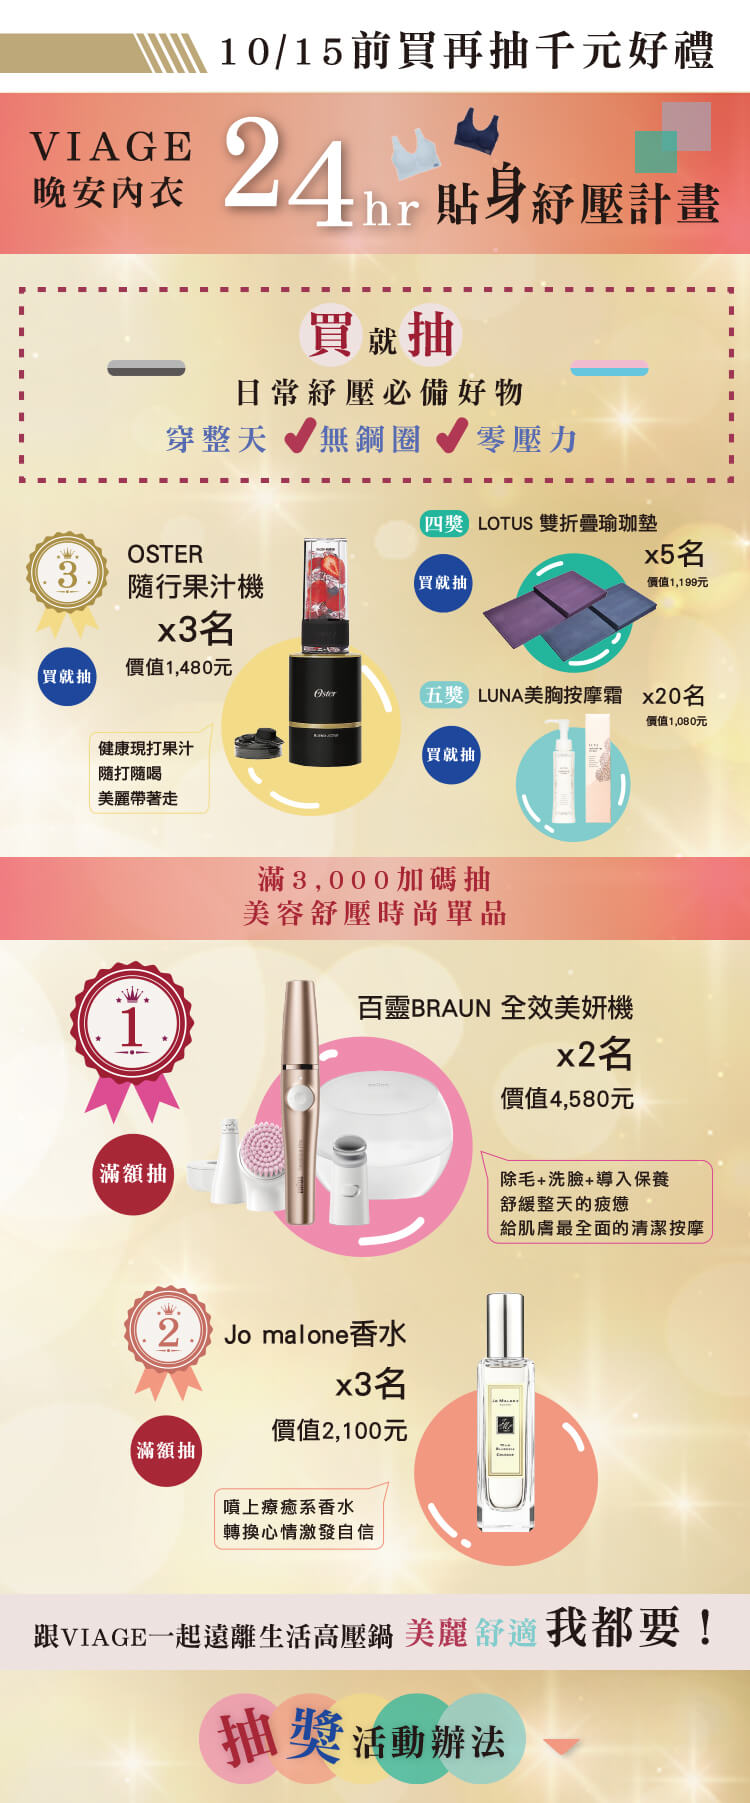
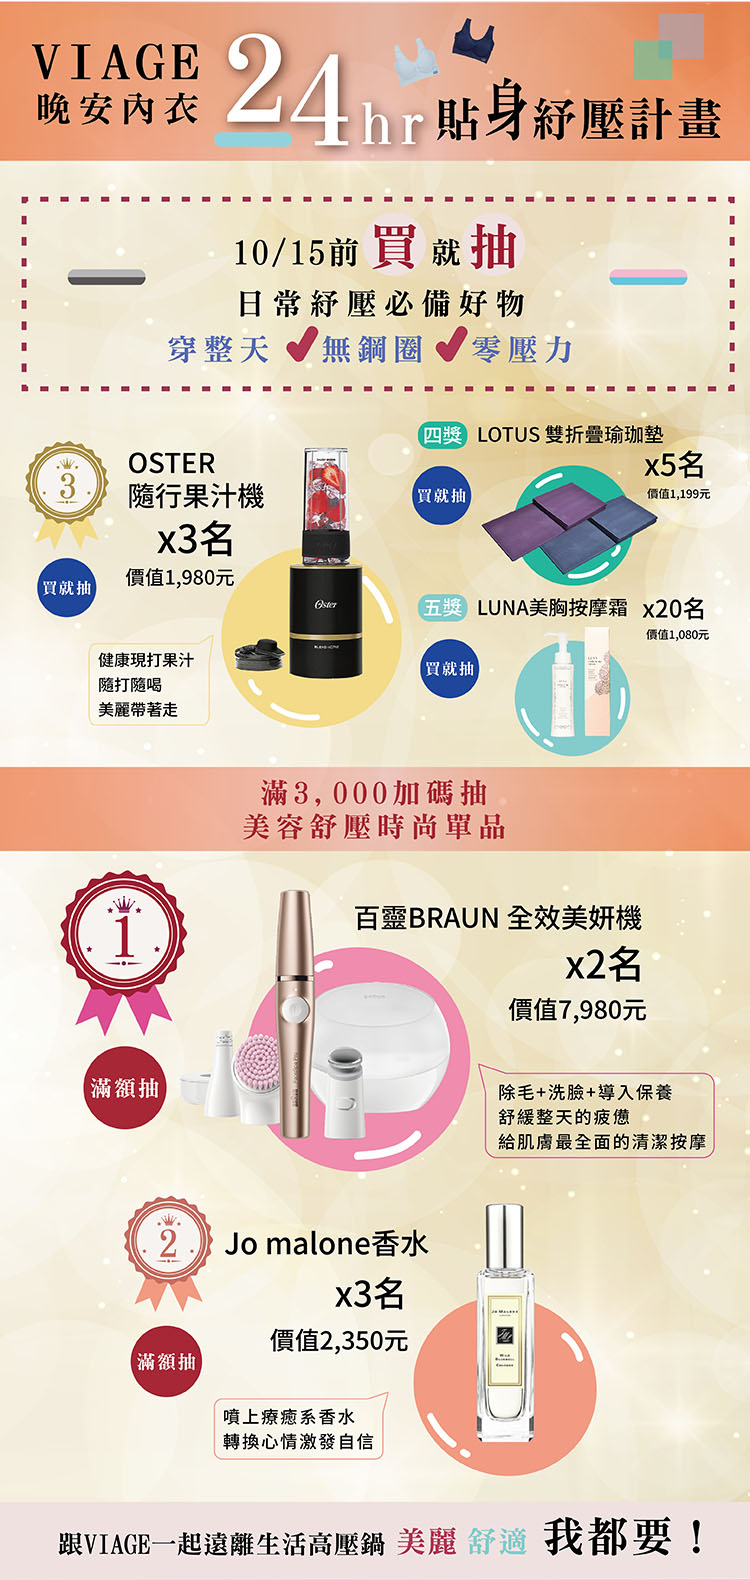
20200911_anniversary update_3

diff --git a/index.html b/index.html
@@ -174,15 +174,17 @@
                 <div class="PC">
                     <img src="./img/01_banner.jpg" alt="">
                     <img src="./img/01.jpg" alt="">
-                    <img src="./img/01_anniversary.jpg" alt="">
+                    <img src="./img/01_anniversary_1.jpg" alt="">
+                    <img src="./img/01_anniversary_2.jpg" alt="">
                     <img src="./img/03.jpg" style="width:70%;" alt="">
                     <img src="./img/ig_title.jpg" alt="" style="width:70%;">
                 </div>
                 <div class="SP">
                     <img src="./img/SP/SP_01_banner.jpg" alt="">
                     <img src="./img/SP/SP_01.jpg" alt="">
-                    <img src="./img/SP/SP_01_anniversary_1.jpg" class="anniversary_1" alt="">
-                    <img src="./img/SP/SP_01_anniversary_2.jpg" class="anniversary_2" alt="">
+                    <img src="./img/SP/SP_01_anniversary_1.jpg" alt="">
+                    <img src="./img/SP/SP_01_anniversary_2.jpg" class="anniversary_1" alt="">
+                    <img src="./img/SP/SP_01_anniversary_3.jpg" class="anniversary_2" alt="">
                     <img src="./img/SP/SP_03.jpg" alt="">
                     <img src="./img/SP/SP_ig_title.jpg" alt="">
                 </div>
